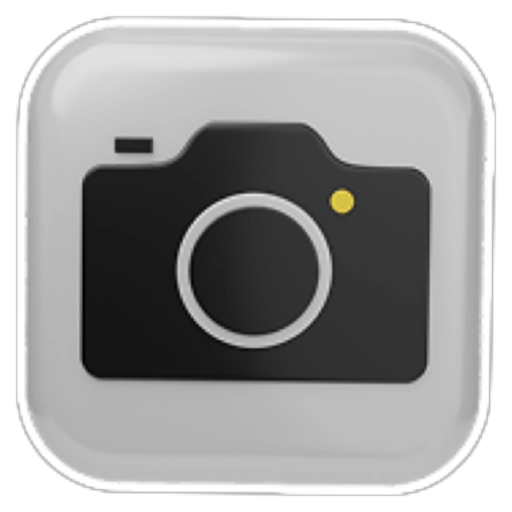
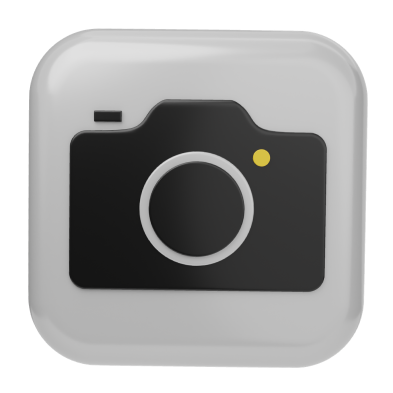
frontpage done

diff --git a/src/components/Home.jsx b/src/components/Home.jsx
@@ -1,10 +1,15 @@
-import React from "react";
+import React, { useState } from "react";
 import { useNavigate } from "react-router-dom";
 import image from "../assets/image-copy.png";
 import camera from "../assets/home-camera_layer.png";
+import layer1 from "../assets/home-layer1.png";
+import layer2 from "../assets/home-layer2.png";
+import layer3 from "../assets/home-layer3.png";
+
 
 const Home = () => {
   const navigate = useNavigate();
+  const [isClicked, setIsClicked] = useState(false);
 
   const handleClick = () => {
     navigate("/about");
@@ -14,46 +19,35 @@ const Home = () => {
     <div className="flex flex-col items-center justify-center h-screen bg-transparent">
       <h1 className="text-[180px] font-extralight">Portfolio</h1>
 
-      <div className="relative w-[500px] h-[400px]">
-        {/* Background Layer */}
+      <div className="relative w-[300px] h-[300px] mt-[-150px] size-[800px] overflow-hidden">
+        {/* Layer 1 */}
         <img
-          src={image}
-          alt="Folder Bottom"
-          className="absolute left-0 top-0 w-full h-full object-cover"
+          src={layer1}
+          alt="Layer 1"
+          className="absolute top-[30px] left-[-20px] w-[387px] h-[340px] object-contain opacity-100 z-[-1] pointer-events-none"
         />
-
-        {/* Camera Layer */}
+        {/* Layer 2 */}
+        <img
+          src={layer2}
+          alt="Layer 2"
+          className="absolute mt-[30px] ml-[-20px] w-full h-full z-0 pointer-events-none overflow-hidden"
+        />
         <img
           src={camera}
-          alt="Camera Icon"
+          alt="camera image"
+          className="w-36 h-36 z-2 ml-[100px] mt-[80px] cursor-pointer
+             transition-all duration-300 ease-in-out
+             hover:mt-[30px] hover:w-40 hover:h-40"
           onClick={handleClick}
-          className="
-            absolute 
-            left-1/2 
-            top-[35%] 
-            w-[40%] 
-            h-[50%] 
-            opacity-80 
-            object-cover 
-            cursor-pointer 
-            transform 
-            -translate-x-[20%] 
-            -translate-y-[80%] 
-            transition 
-            duration-300 
-            ease-in-out 
-            hover:scale-125 
-          "
-          style={{
-            backgroundColor: "transparent", // Ensures no background color
-            border: "none", // Removes any applied borders
-            outline: "none", // Prevents focus outlines
-            filter: "drop-shadow(0px 0px 5px rgba(0,0,0,0.3))", // Adds a soft glow to blend edges
-          }}
+        /> 
+        {/* Layer 3 */}
+        <img
+          src={layer3}
+          alt="Layer 3"
+          className="absolute w-full h-full top-[-14px] right-[15px] w-[400px] h-[400px] object-contain opacity-60 z-1 mt-[40px] pointer-events-none"
         />
-        
       </div>
-      <p className="text-[20px] text-center mr-[-128px]">start with the camera, the rest are just tools.</p>
+      {/* <p className="text-[20px] text-center mr-[-128px]">start with the camera, the rest are just tools.</p> */}
     </div>
   );
 };
